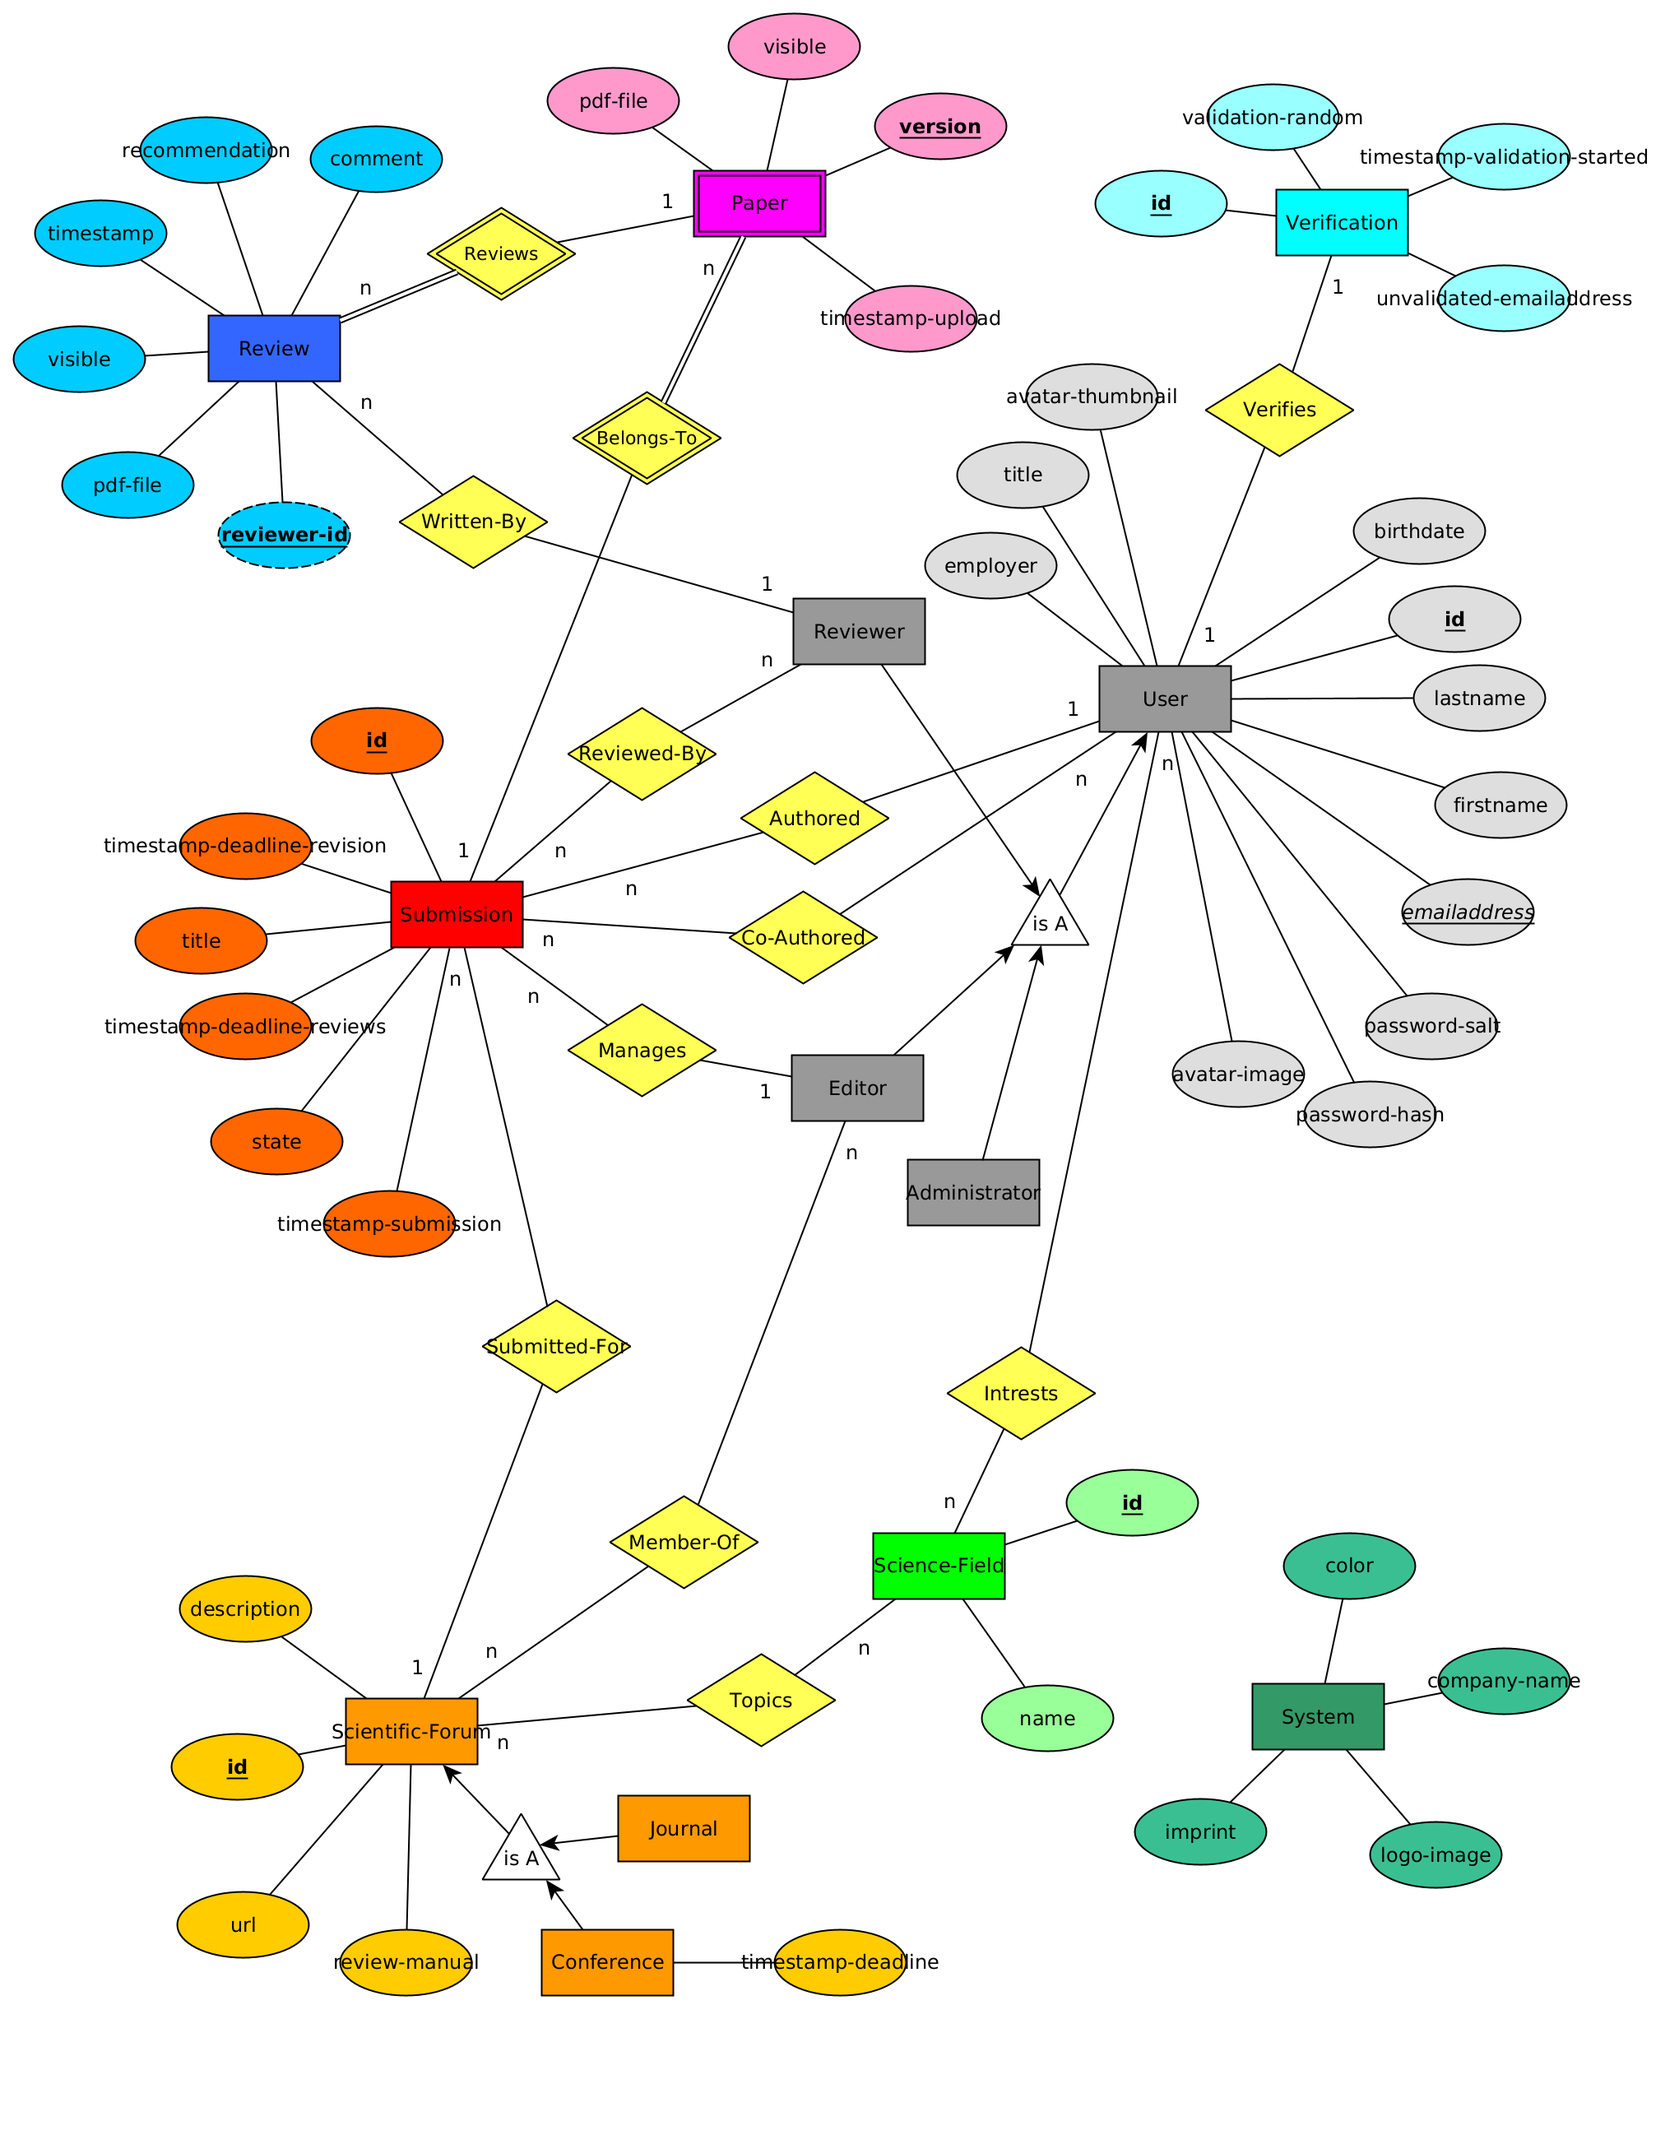
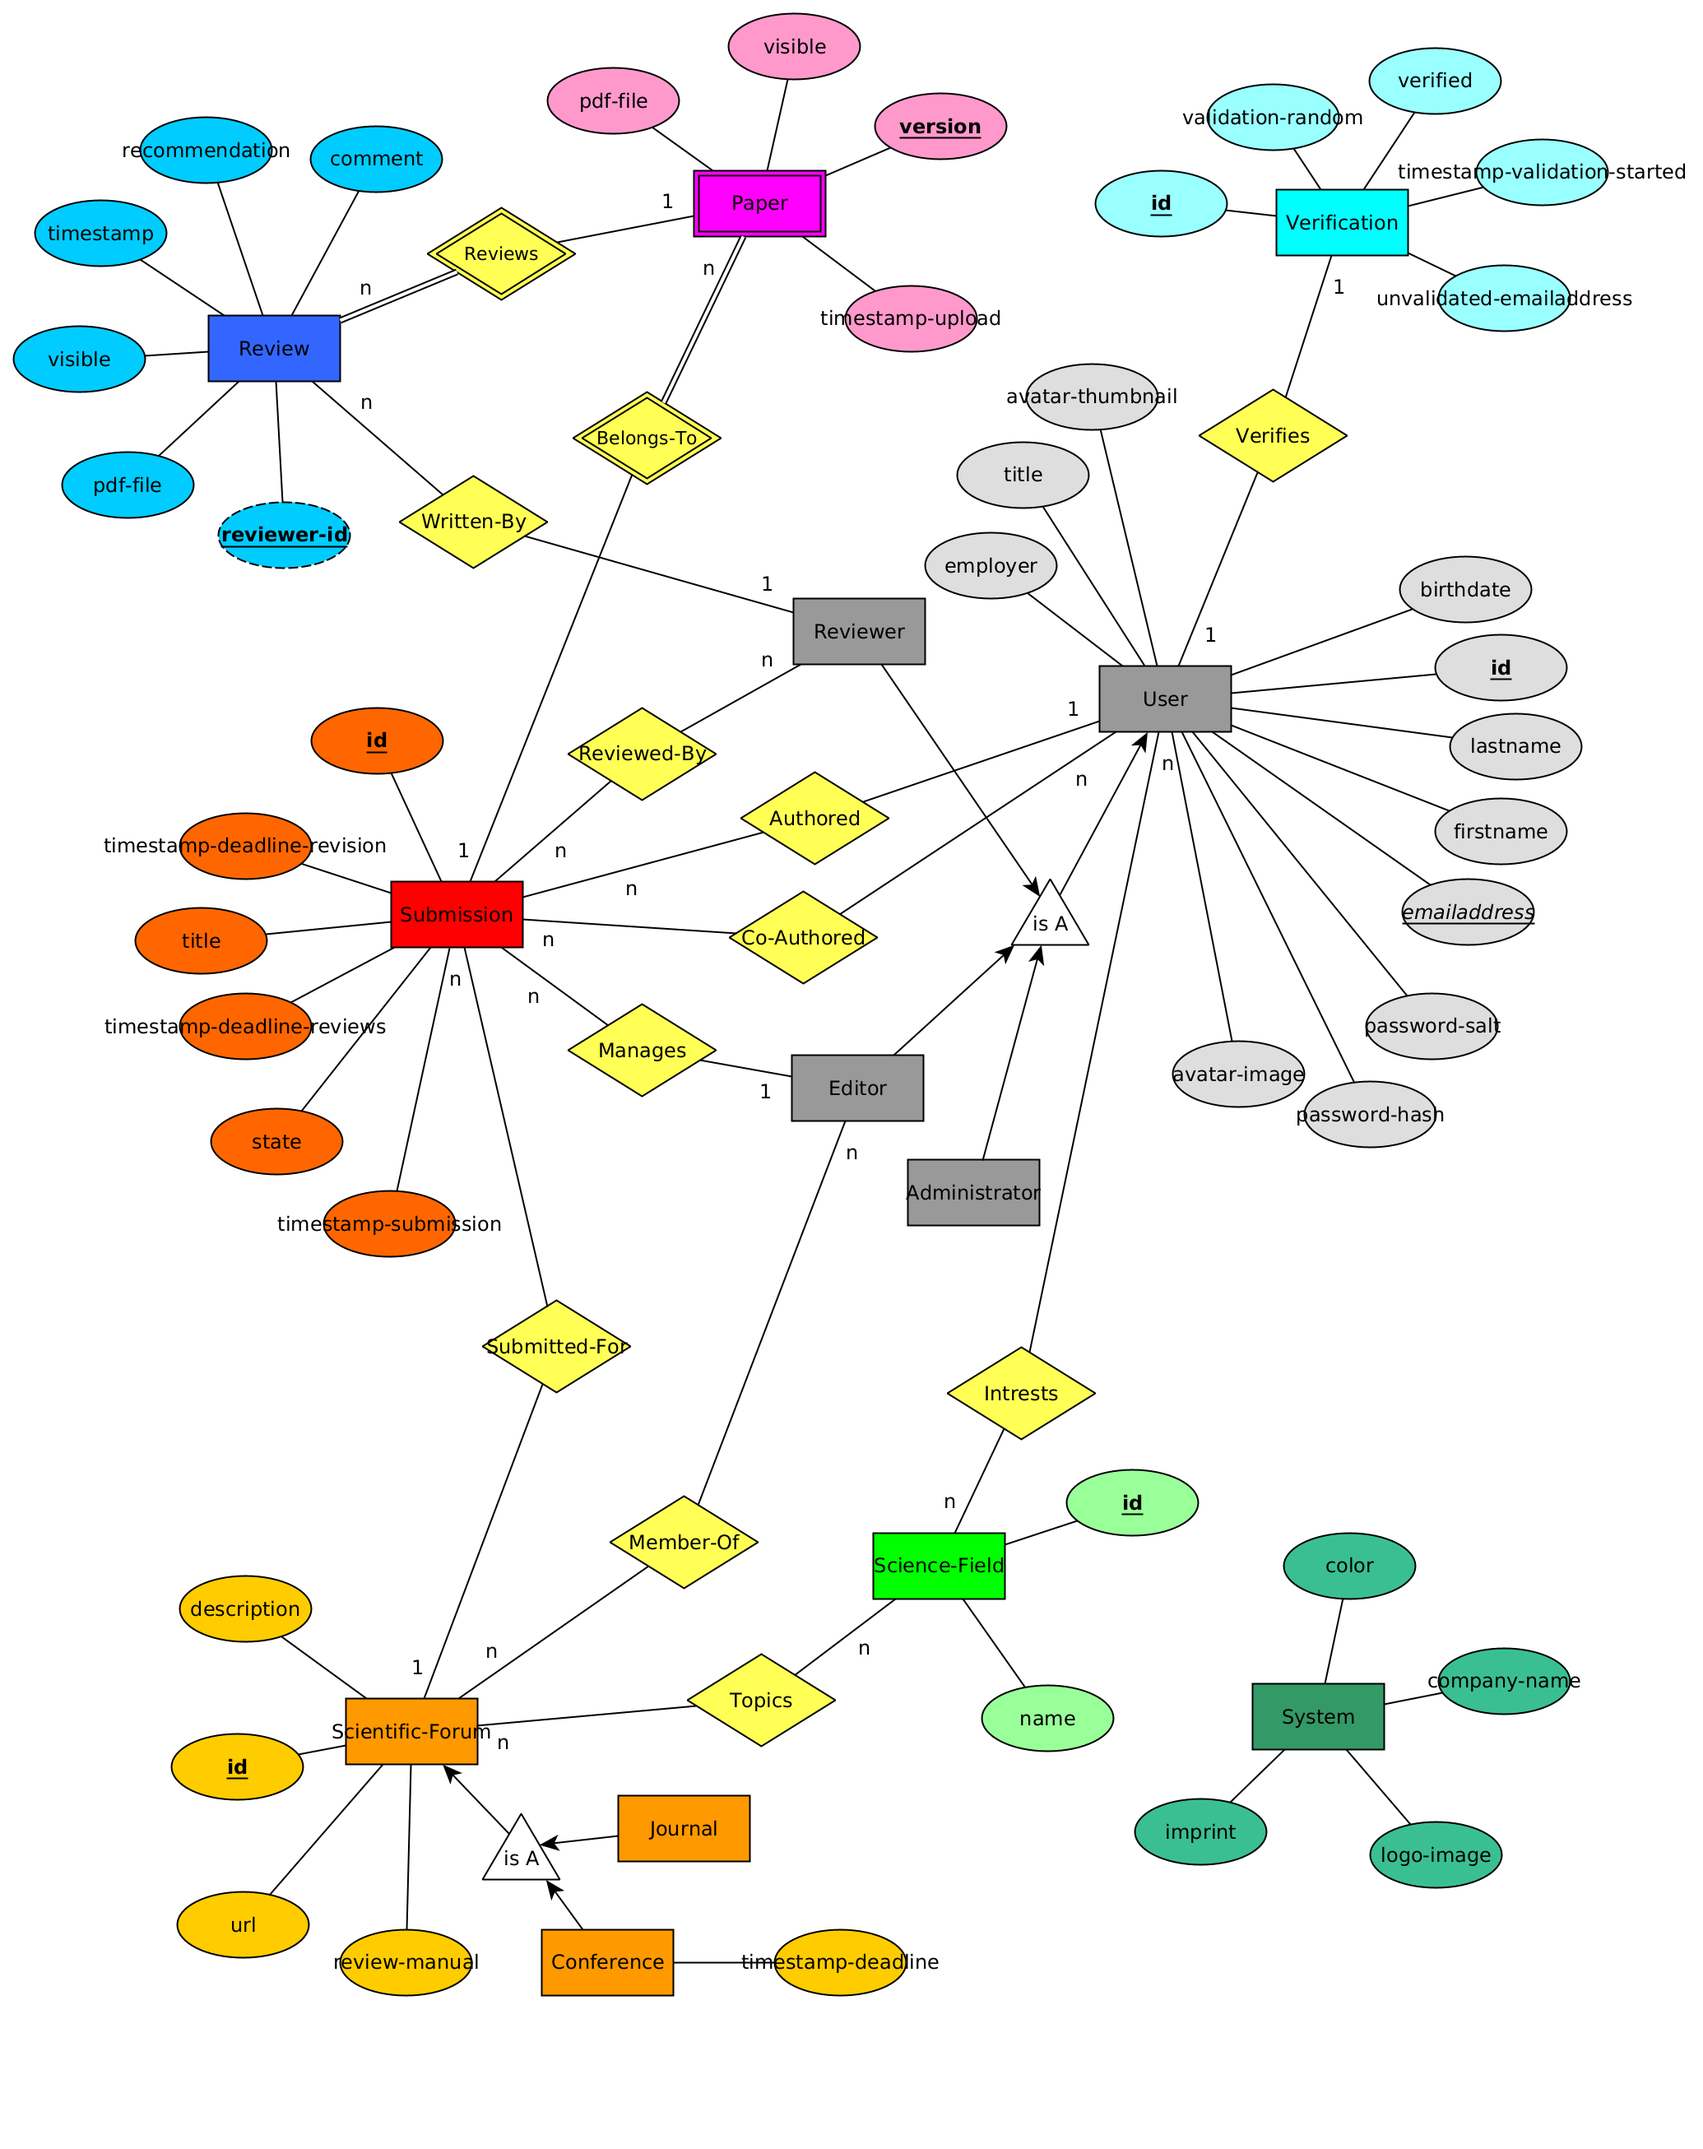
add description and add validation boolean

diff --git a/docs/Entwurf/ER-Modell.tex b/docs/Entwurf/ER-Modell.tex
@@ -16,6 +16,8 @@ Hier werden die einzelnen Entities nochmal im Detail beschrieben. Mit der Notati
 \begin{description}
 	\XXitem{User}{er:user} Ein Nutzer kann verschiedene Rollen wahrnehmen, diese werden durch die \emph{is-A}-Spezifizierung modelliert. Die Attribute entsprechen den in \texttt{\textbf{/D010/}} und \texttt{\textbf{/DW015/}} angegebenen Daten. Hierbei gilt zusätzlich die Einschränkung, dass E-Mail-Adressen im System einzigartig sein müssen. \\Zusätzlich werden auch noch der Passwort-Hash und das zugehörige Salt zum generieren des Hashes gespeichert.
 
+	\XXitem{Verification}{er:verification} Da jede E-Mailadressenänderung eine Verifizierung benötigt, werden hier die Daten, zu welchen geändert wird, gespeichert. Das \emph{validation-random} ist dabei der String, welcher im Verifizierungslink per E-Mail versendet wird.
+
 	\XXitem{Paper}{er:paper} Ein Paper ist das in einem Einreichungsprozess hochgeladene Paper. Es ist modelliert als eine schwache Entität, abhängig von einer Einreichung, da ein Paper nicht im System existieren kann, ohne zu einem Einreichungsprozess zugeordnet zu werden. Es speichert die in \texttt{\textbf{/D020/}} angegebenen Daten.
 
 	\XXitem{Submission}{er:submission} Eine Einreichung speichert alle zu einem Einreichungsprozess gehörenden Daten, inklusive der Metadaten, wie den Einreicher und Ko-Autor, also alle in \texttt{\textbf{/D025/}} und \texttt{\textbf{/DW021/}} angegebenen Daten.
